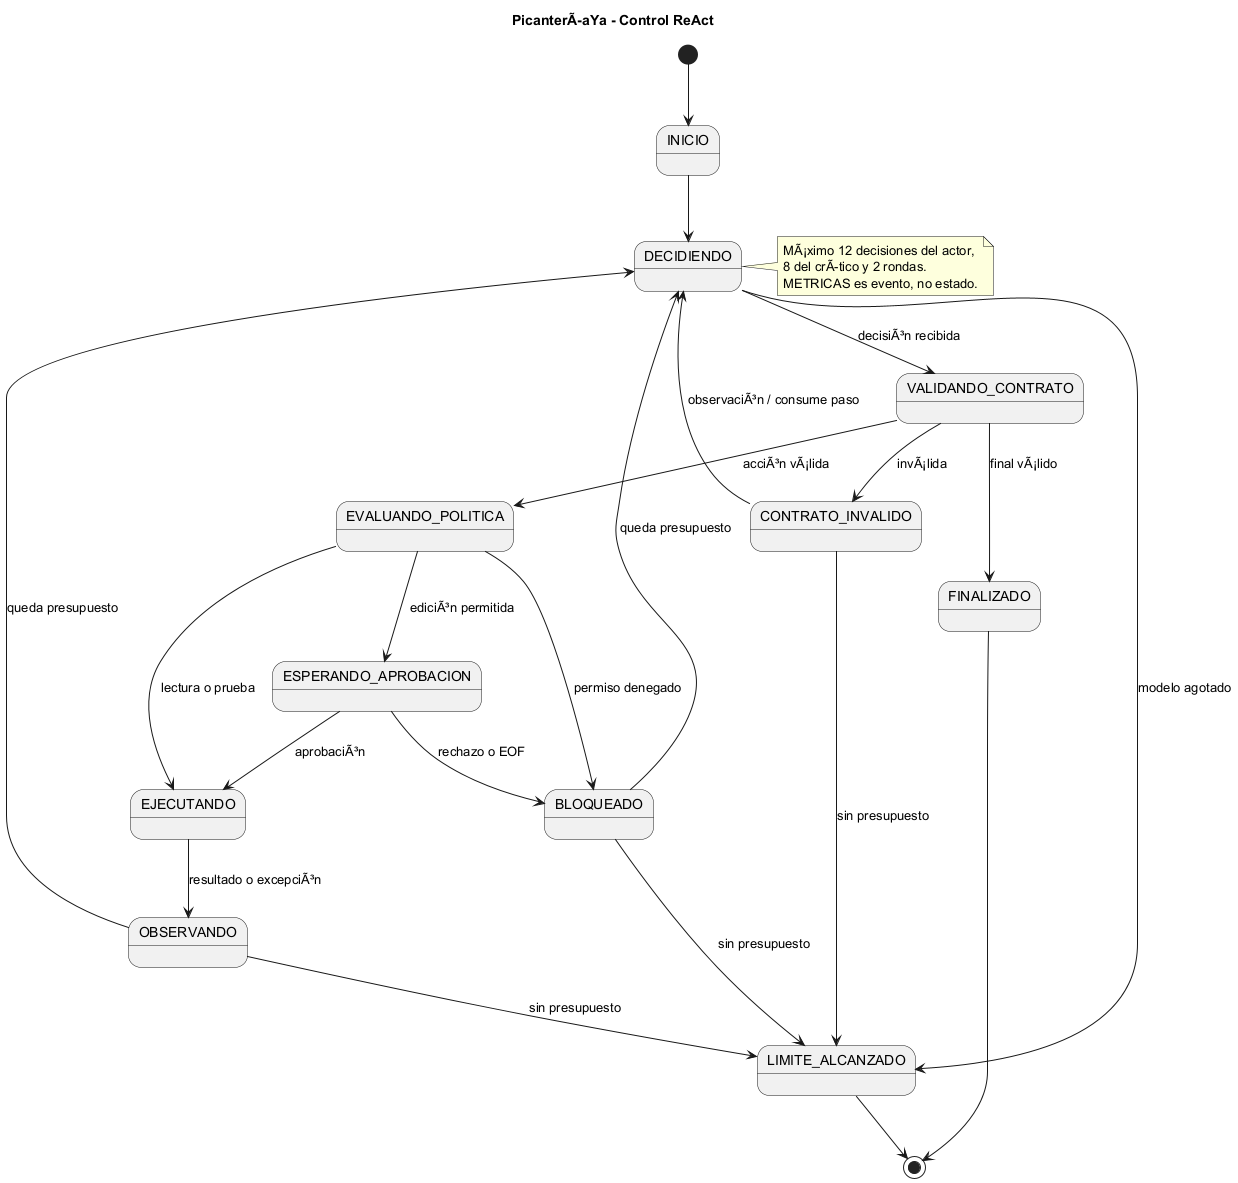
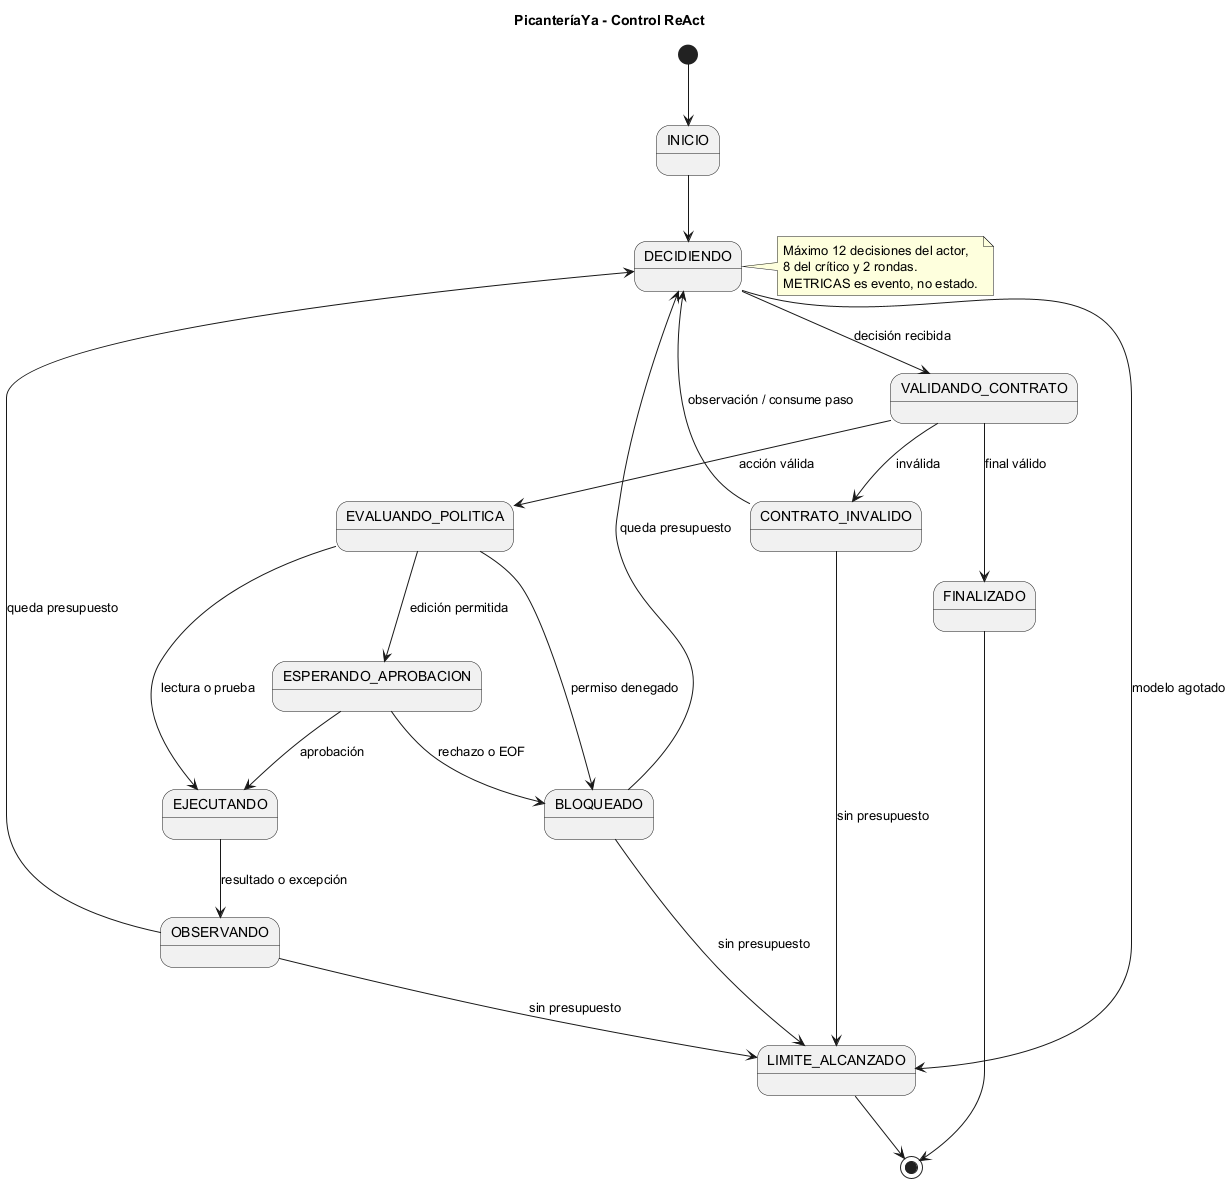
E8: ADR-010, cuestionario, README y validación de entrega

diff --git a/agentes/orquestador.py b/agentes/orquestador.py
@@ -36,6 +36,9 @@ def comparar(aprobador=aprobar_consola):
         raiz = Path(t)
         preparar(raiz)
         resultado, agente = ejecutar('issue02-unico', raiz, secuencia_unico(), aprobador=aprobador)
+        pruebas = [e for e in agente.eventos if e['estado'] == 'OBSERVANDO' and e.get('accion') == 'ejecutar_pruebas']
+        if not pruebas or not pruebas[-1]['observacion'].startswith('EXIT=0\n'):
+            resultado = 'NO RESUELTO: aprobación rechazada o prueba fallida; requiere intervención humana'
         resultados['unico'] = resultado
         unico_final = (raiz/RUTA).read_text(encoding='utf-8')
     with tempfile.TemporaryDirectory(prefix='picanteria-multi-') as t:
@@ -68,7 +71,8 @@ def comparar(aprobador=aprobar_consola):
             if ronda == 2:
                 resultados['actor_critico'] = 'NO APROBADO: requiere intervención humana'
         multi_final = (raiz/RUTA).read_text(encoding='utf-8')
-        assert multi_final == unico_final, 'Los experimentos deben llegar al mismo parche'
+        if resultados['actor_critico'].startswith('APROBADO:') and not resultado.startswith('NO RESUELTO'):
+            assert multi_final == unico_final, 'Los experimentos aprobados deben llegar al mismo parche'
         (ROOT/'agentes/evidencia/issue02-final-dominio.py.txt').write_text(multi_final, encoding='utf-8')
     return resultados
 

diff --git a/src/pedidos/dominio.py b/src/pedidos/dominio.py
@@ -138,6 +138,8 @@ class Pedido:
 
     def agregar_linea(self, plato: Plato, cantidad: int) -> None:
         """Agrega una línea al pedido, verificando stock."""
+        if type(cantidad) is not int or cantidad <= 0:
+            raise ValueError("La cantidad debe ser un entero positivo")
         if not plato.hay_stock(cantidad):
             raise ValueError(f"Stock insuficiente para '{plato.nombre}'")
         linea = LineaPedido(
@@ -199,8 +201,10 @@ class Repartidor:
 
     def asignar_pedido(self, pedido: Pedido) -> None:
         """Asigna este repartidor al pedido y lo marca como no disponible."""
-        self.disponible = False
+        if not self.disponible:
+            raise ValueError("Repartidor ocupado")
         pedido.marcar_preparando()
+        self.disponible = False
 
 
 # ─────────────────────────────────────────────────────────────────────────────

diff --git a/agentes/reportar.py b/agentes/reportar.py
@@ -40,7 +40,7 @@ def diagramas():
                     lineas += ['Control -> Herramientas : '+e['accion'], 'Herramientas --> Control : resultado registrado']
         p.with_suffix('.puml').write_text('\n'.join(lineas+['@enduml'])+'\n', encoding='utf-8')
     archivos = [str(p) for p in (ROOT/'agentes/trazas').glob('*.puml')]+[str(ROOT/'agentes/diseno/estados.puml')]
-    subprocess.run(['java', '-jar', str(ROOT/'plantuml.jar'), '-tpng', *archivos], check=True, timeout=60)
+    subprocess.run(['java', '-jar', str(ROOT/'plantuml.jar'), '-charset', 'UTF-8', '-tpng', *archivos], check=True, timeout=60)
 
 
 def main():

diff --git a/docs/architecture/adr/010-sistema-agentico.md b/docs/architecture/adr/010-sistema-agentico.md
@@ -1,0 +1,57 @@
+# ADR-010: Sistema agéntico de mantenimiento de PicanteríaYa
+
+Fecha: 19/11/2026. Estado: propuesto para revisión humana.
+
+## Contexto
+
+El dominio omite delivery, admite cantidades inválidas y reasigna repartidores
+ocupados. Se requiere explorar código y justificar cambios con pruebas.
+La guía exige trabajo sin claves de API, trazas, límites y humano en el circuito.
+
+## Decisión
+
+Usar un mini framework propio basado en los extractos del ejemplo docente
+(el archivo de recursos no estaba en la carpeta). Modelo es una Strategy:
+ModeloInteractivo recibe JSON de un asistente y ModeloGrabado reproduce
+decisiones guardadas. No se presenta el replay como razonamiento autónomo.
+
+ReAct con contrato estricto y máquina de estados controla cada decisión.
+Herramientas acotadas para lectura, búsqueda, edición, pytest, diff, mapa AST
+y notas. El dinero sigue siendo Decimal; los agentes no participan en cobros.
+Cada experimento trabaja en copia de src/tests/issues. Solo dominio.py puede
+editarse. El catálogo no expone shell ni credenciales. El crítico y el gestor
+son de solo lectura. Notas por tarea y un historial forman la memoria.
+
+Se compararon agente único y gestor/actor-crítico, máximo dos rondas, con
+12 decisiones por actor, 8 por crítico y 4 por gestor. El rechazo de contrato
+también consume presupuesto. La aprobación por consola es obligatoria en el
+modo normal; el modo de experimentos utiliza fixtures explícitos. Ningún
+agente fusiona el PR; el humano conserva revisión y decisión final.
+
+## Alternativas
+
+* Flujo fijo: preferido para reglas del negocio y CI; insuficiente para explorar
+  ubicaciones desconocidas. Sigue siendo la opción más simple para estos bugs
+  cuando su causa ya está localizada.
+* Un LLM con shell irrestricto: rechazado por exceso de agencia y falta de
+  límites verificables.
+* Framework externo y API pagada: descartado para mantener reproducción sin
+  claves y entender el control. No se afirma equivalencia con producción.
+* Multiagente permanente: descartado para estas correcciones pequeñas. E5
+  produjo el mismo parche con más acciones y contexto acumulado.
+* Coordinación democrática del reto A: no elegida; el equipo pidió reto B con Codex.
+
+## Consecuencias y evidencia
+
+Las trazas permiten reconstruir acciones, fallos, permisos y presupuestos.
+Hay más código de control y las decisiones grabadas limitan adaptabilidad.
+Las métricas miden caracteres y acciones, no latencia de inferencia ni tokens
+facturados. No se exponen pensamientos privados del modelo: solo resúmenes
+operativos de las decisiones del protocolo.
+
+Ver agentes/observacion.md, agentes/delegacion.md y agentes/reto/README.md.
+El confinamiento de rutas no sustituye una VM/contenedor para código hostil.
+La asignación simultánea de repartidores requeriría transacción/lock en una
+persistencia real; esta corrección solo cubre el modelo secuencial existente.
+Pendientes externos: aprobación humana, revisión cruzada con otro grupo y
+entrega del enlace en Aula Virtual. No se registran como realizadas.

diff --git a/agentes/entrega.md b/agentes/entrega.md
@@ -1,0 +1,50 @@
+# Entrega y matriz de verificación
+
+Fecha límite de la guía: sábado 21/11/2026, 23:59.
+
+| Criterio | Puntos | Evidencia | Estado |
+|---|---:|---|---|
+| E1: siete decisiones y tres pruebas rojas | 3 | diseno/lienzo.md, issues, evidencia/E1-rojo.txt | Implementado y ejecutado |
+| E2: ReAct interactivo, traza y verde | 3 | issue01-interactivo.json/.jsonl/.mmd/.png | Ejecutado por Codex con registro literal |
+| E3: estados fieles y contratos propios | 3 | diseno/estados.*, pruebas_agente/test_control.py | Implementado y probado |
+| E4: herramienta y notas con medición | 2 | herramienta-memoria.md, issue03-notas.*, test_memoria.py | Ejecutado; efecto medido sin inferir causalidad |
+| E5: comparación y conclusión | 3 | observacion.md, trazas issue02-* | Mismo parche; dos rondas; datos reales |
+| E6: aprobación y delegación | 2 | politica.py, delegacion.md, pruebas de rechazo/EOF | Mecanismo probado; demostración por integrante pendiente |
+| E7: métricas y cinco interacciones | 2 | observacion.md, bitacora-ia.md, metricas.json | Completado con procedencia explícita |
+| E8: ADR, README, tag y enlace | 2 | ADR-010, README, workflow agentes.yml | Archivos listos; verificar tag y entregar enlace |
+| Reto B | +2 (tope 20) | reto/AGENTS.md, codex.diff, rojo/verde y comparación | Ejecutado con Codex; validar equivalencia con ejemplos de la guía si el docente lo exige |
+
+## Revisión cruzada y checkpoint
+
+La guía pide revisión de otro grupo y registro de observaciones en su repositorio.
+No se proporcionó ese repositorio ni se realizó una revisión por otro grupo.
+No se inventa el checkpoint del docente ni una revisión externa. Para completarlos:
+compartir lienzo y trayectoria, recibir observaciones, registrar el issue real
+en el repositorio revisado y enlazarlo aquí junto con la respuesta del equipo.
+
+## Flujo de GitHub
+
+Rama de entrega: codex/lab10-sistemas-agenticos. Un commit por E1–E8 y otro
+por reto B, todos con los tres correos de coautoría. Se mantienen Grupo XX y
+el nombre actual del repositorio: no se recibió un número de grupo distinto.
+La carpeta .git local está protegida, por lo que los commits se publicaron
+por la API de GitHub sin tocar los cambios previos del Lab 09.
+
+El PR se deja abierto para revisión humana y no se fusiona automáticamente.
+El workflow valida las pruebas y, en el commit final cuyo mensaje empieza
+por `Reto B:`, crea la etiqueta `v1.0-agentes` sin sobrescribir otra etiqueta.
+Esta etiqueta identifica la entrega propuesta, no una aprobación del docente.
+
+Si Actions no puede crearla, desde un clon con permisos normales:
+
+```bash
+git fetch origin
+git switch --track origin/codex/lab10-sistemas-agenticos
+python -m pytest -q tests agentes/pruebas_agente
+git tag v1.0-agentes
+git push origin refs/tags/v1.0-agentes
+```
+
+Comprobar previamente que la etiqueta no existe. El integrante revisa y aprueba
+el PR; después se entrega el enlace en Aula Virtual. Estas acciones humanas
+no se registran como completadas por el asistente.

diff --git a/agentes/cuestionario.md b/agentes/cuestionario.md
@@ -1,0 +1,39 @@
+# Cuestionario del laboratorio 10
+
+1. **Agente frente a flujo fijo.** El agente elige qué inspeccionar según las
+   observaciones. Un flujo fija todos los pasos. En PicanteríaYa validar una
+   cantidad y sumar el delivery son reglas deterministas; no deben depender
+   de una decisión lingüística durante un cobro.
+2. **Dos arquetipos.** ReAct para ISSUE-01 y ISSUE-03: localizar total y
+   asignación requiere explorar y verificar. Planificador-ejecutor con reflexión
+   para ISSUE-02: separar análisis de tipos, edición y crítica. Las tres tareas
+   podrían corregirse sin agentes si ya se conoce exactamente la causa.
+3. **Estados y guardia.** INICIO, DECIDIENDO, VALIDANDO_CONTRATO,
+   EVALUANDO_POLITICA, ESPERANDO_APROBACION, EJECUTANDO y OBSERVANDO, con
+   CONTRATO_INVALIDO, BLOQUEADO, FINALIZADO y LIMITE_ALCANZADO. El `range`
+   acota todas las decisiones, incluso inválidas: 12 actor, 8 crítico y dos
+   rondas máximo. El agotamiento del modelo también termina la tarea.
+4. **Contrato.** Un objeto con pensamiento y acción/args o final, tipos
+   correctos y campos cerrados. El rechazo vuelve como observación sin
+   ejecutar herramientas. En las pruebas propias se usa args como texto y
+   una herramienta inventada. E2 no produjo rechazos espontáneos; no se
+   inventa uno para la bitácora. El error real del parche fue aceptar bool.
+5. **Memoria.** Pizarra persistente por tarea en notas.md, además del historial
+   de corto plazo. E4 usó 9 decisiones y 14135 caracteres, frente a 7 y 16785
+   en E2. Añadir notas no redujo pasos; mapa y distinta tarea explican parte
+   de la diferencia. No hay evidencia de un efecto causal aislado.
+6. **Coordinación.** E5: único 7 acciones y 19511 caracteres; gestor y dos
+   rondas actor-crítico 10 acciones y 25277 caracteres finales sumados. Ambos
+   llegaron al mismo parche. El crítico detectó bool y se bloqueó su escritura,
+   pero el único también lo detectó mediante tests. Para este alcance no
+   compensa el costo adicional: parsimonia favorece un agente y revisión humana.
+7. **Exceso de agencia.** Dar herramientas o autonomía que el rol no necesita.
+   El crítico no escribe; el actor solo edita dominio.py con aprobación. No hay
+   shell libre, red, credenciales ni escritura en tests. Las rutas se resuelven
+   dentro de la copia. Esto es confinamiento de herramientas, no un aislamiento
+   de procesos del sistema operativo para ejecutar código hostil arbitrario.
+8. **Etapa actual.** Revisor: una persona debe examinar cada edición y el PR.
+   Para avanzar a colaborador se exigirían diez tareas sin regresiones,
+   rechazos demostrados, costos observados y revisión independiente. Las
+   aprobaciones de replay y las respuestas introducidas por Codex no cuentan
+   como esa validación humana. Ver delegacion.md.

diff --git a/agentes/README.md b/agentes/README.md
@@ -1,0 +1,64 @@
+# Laboratorio 10: PicanteríaYa
+
+## Instalación y verificación
+
+Desde la raíz del repositorio, Python 3.10 o posterior:
+
+```bash
+python -m pip install pytest
+python -m pytest -q tests agentes/pruebas_agente
+python -m agentes.experimentos
+python -m agentes.orquestador --replay-aprobado
+python -m agentes.reportar
+```
+
+La última orden requiere Java y el `plantuml.jar` existente. Produce Mermaid,
+PlantUML equivalente y PNG desde los mismos eventos JSONL; la máquina de
+estados se mantiene en `diseno/estados.puml`. No requiere claves ni LLM en CI.
+Los replays sobre copias de la base no modifican el dominio final del proyecto.
+
+## Modo interactivo y aprobación real
+
+```bash
+python -m agentes.ejecutar --issue 01 --salida issue01-humano
+python -m agentes.orquestador
+```
+
+Copiar CONTEXTO_ACTUAL al asistente, solicitar una sola decisión JSON y pegarla
+en una línea. El protocolo tiene estas dos formas exclusivas:
+
+```json
+{"pensamiento":"Leer el issue","accion":"leer_archivo","args":{"ruta":"issues/ISSUE-01.md"}}
+```
+
+```json
+{"pensamiento":"Pruebas verificadas","final":"Resumen y pendientes"}
+```
+
+No corregir manualmente las decisiones inválidas: el contrato las devuelve al
+modelo. Para cada edición, una persona revisa antes/después y responde s/n.
+El máximo de pasos incluye respuestas inválidas. Reproducir decisiones de E2:
+
+```bash
+python -m agentes.ejecutar --issue 01 --replay agentes/trayectorias/issue01-interactivo.json --salida issue01-replay-humano
+```
+
+Ese replay también requiere aprobación por consola. `--replay-aprobado` solo
+existe para la comparación automatizada del orquestador y se identifica como
+fixture. No constituye una aprobación humana.
+
+## Mapa de entregables
+
+* E1: diseno/lienzo.md, ../issues/, ../tests/test_issue_*.py y evidencia/E1-rojo.txt.
+* E2: ejecutar.py, agente/, trayectorias/issue01-interactivo.json y trazas/.
+* E3: diseno/estados.puml, estados.png y pruebas_agente/test_control.py.
+* E4: diseno/herramienta-memoria.md, experimentos.py y pruebas de notas/AST.
+* E5: orquestador.py y observacion.md (comparación agregada y conclusión).
+* E6: delegacion.md y agente/politica.py.
+* E7: observacion.md, bitacora-ia.md, reportar.py y evidencia/metricas.json.
+* E8: ../docs/architecture/adr/010-sistema-agentico.md, README y entrega.md.
+* Cuestionario: cuestionario.md. Reto B: reto/README.md y reto/AGENTS.md.
+
+El framework es una implementación propia basada en los extractos de la guía;
+no se recibió el archivo de recursos externo. La ejecución comercial del reto
+se realizó con Codex de esta sesión, sin atribuirla a Claude Code/Copilot/Gemini.

diff --git a/README.md b/README.md
@@ -434,3 +434,30 @@ Repetir la captura para cada versión y caso usando una conversación nueva. Cop
 El [backlog del Lab 09](prompts/criterios/backlog.md) reúne HU-01 y cinco historias nuevas derivadas del diseño. La [muestra exploratoria de ChatGPT web](prompts/criterios/muestra-chatgpt/) contiene H1, H2 y H3. Las cuatro versiones de criterios usan ERNIE 5.5 Flash Preview. Ante el límite anónimo de Kilo, se usó GPT-6 Luna en Duck.ai para las capturas pendientes y para el reto. El repositorio incluye el [cuestionario y la lista de entrega](prompts/entrega.md), la [bitácora](prompts/bitacora-ia.md), las [pruebas defensivas](prompts/seguridad/red-team.md) y el [reto de comparación](prompts/reto/README.md).
 
 
+
+
+## Sistemas agénticos (Lab 10)
+
+Tres issues reales de PicanteríaYa: delivery omitido, cantidad inválida y repartidor ocupado.
+Implementación y evidencias: [guía de ejecución](agentes/README.md), [observación](agentes/observacion.md), [cuestionario](agentes/cuestionario.md), [ADR-010](docs/architecture/adr/010-sistema-agentico.md), [reto B con Codex](agentes/reto/README.md).
+
+### Máquina de estados
+
+![Control ReAct](agentes/diseno/estados.png)
+
+### Trayectoria generada desde JSONL
+
+![Issue 1](agentes/trazas/issue01-interactivo.png)
+
+| Ejecución | Pasos | Rondas | Acciones | Contratos rechazados | Bloqueadas | Contexto final (car.) |
+|---|---:|---:|---:|---:|---:|---:|
+| issue01-interactivo | 7 | 1 | 6 | 0 | 0 | 16785 |
+| issue02-actor-r1 | 3 | 1 | 2 | 0 | 0 | 12742 |
+| issue02-actor-r2 | 3 | 2 | 2 | 0 | 0 | 2913 |
+| issue02-critico-r1 | 4 | 1 | 3 | 0 | 1 | 4095 |
+| issue02-critico-r2 | 3 | 2 | 2 | 0 | 0 | 3173 |
+| issue02-planificador | 2 | 1 | 1 | 0 | 0 | 2354 |
+| issue02-unico | 8 | 1 | 7 | 0 | 0 | 19511 |
+| issue03-notas | 9 | 1 | 8 | 0 | 0 | 14135 |
+
+Pruebas: python -m pytest -q tests agentes/pruebas_agente. Las aprobaciones automatizadas no sustituyen al integrante humano. Ver [delegación](agentes/delegacion.md) y [lista de entrega](agentes/entrega.md).
